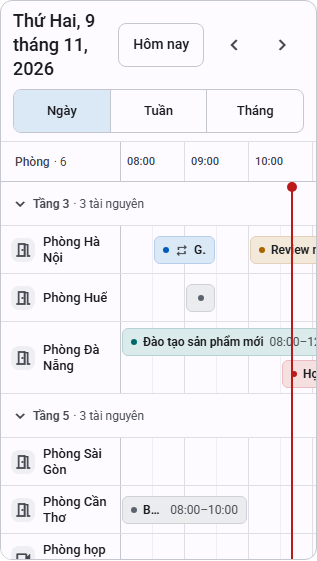
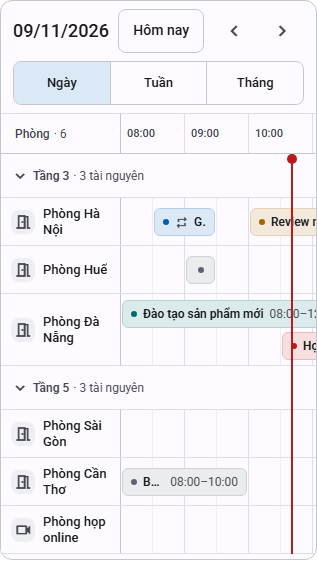
docs(handoff): write the PD decisions of 2026-11-11 into the specs
scheduler.md: resources reload by ids (R1 #7), px-only size variables
(R1 #8), SdSchedulerCellView (R1 #9), the grid label (R1 #10), no
scrollLeft reset on prev/next (R1 #15), titles (R2 #5, #9, #12), month
cells 28px (R2 #7), no dashed origin while waiting (R2 #10), cells
only with the cell template (R2 #11). SHARED-CONTRACT: SC-31 focus
follows the item that had it, 'resize' for a change of the end
(RX #2, #6), SC-43 fallback rule (RX #8). The group-count note of the
test report no longer points at R1 #7. Scheduler screenshots retaken.

diff --git a/.sdcorejs/handoff/schedule-kanban/SHARED-CONTRACT.md b/.sdcorejs/handoff/schedule-kanban/SHARED-CONTRACT.md
@@ -70,7 +70,7 @@ Thêm:
 | --- | --- |
 | SC-29 | Thao tác bắt đầu từ bàn phím hoặc menu: khi xong (chấp nhận, từ chối, `'cancel'`, huỷ phạm vi), focus về item đó, kể cả khi item đã sang khoảng hoặc cột khác. |
 | SC-30 | Trong lúc chờ, người dùng chủ động focus chỗ khác thì giữ nguyên chỗ đó. |
-| SC-31 | `move()` với `source: 'api'` không lấy focus. |
+| SC-31 | `move()` với `source: 'api'` không lấy focus từ chỗ khác. Focus đang ở chính item khi thao tác bắt đầu (mọi `source`) thì đi theo item, kể cả khi item sang ngày, hàng hoặc cột khác, như kanban (RX #6, PD 2026-11-11). Calendar, scheduler: đổi giờ kết thúc (mép, `Alt` + `Shift` + mũi tên) có `source: 'resize'` (RX #2, PD 2026-11-11). |
 
 ## 8. Bố cục, trợ năng, i18n, E2E
 
@@ -92,6 +92,6 @@ Thêm:
 | SC-40 | Standalone, `ChangeDetectionStrategy.OnPush`, signal `input()`/`model()`/`output()`, `@if`/`@for` với `track` theo id. |
 | SC-41 | Ngày giờ chỉ qua `SdDateTimeService`. Không `new Date(string)`, không getter local trên giá trị model, không cộng 24 giờ để sang ngày. |
 | SC-42 | Không thêm dependency. Kéo thả bằng `@angular/cdk/drag-drop`. |
-| SC-43 | Màu chỉ bằng token `--sd-*` có fallback; không hex mới (`check:scss-hex`). Không `!important`, không `::ng-deep`. |
+| SC-43 | Màu chỉ bằng token `--sd-*`; không hex mới (`check:scss-hex`). Token của component (`--sd-calendar-*`, `--sd-scheduler-*`, `--sd-kanban-*`) phải có fallback; token lõi (`--sd-*` của theme, kể cả `--sd-shadow-*`) không cần, theo quy ước trên main; fallback đang có thì giữ (RX #8, PD 2026-11-11). Không `!important`, không `::ng-deep`. |
 | SC-44 | Không render phần tử cho từng slot thời gian; vạch lưới vẽ bằng gradient. |
 | SC-45 | Comment `why:` cho quyết định không hiển nhiên, như code hiện có. |

diff --git a/.sdcorejs/handoff/schedule-kanban/reports/scheduler-tests.md b/.sdcorejs/handoff/schedule-kanban/reports/scheduler-tests.md
@@ -207,7 +207,7 @@ Thư mục `reports/scheduler-screens/`, chụp từ project `asia-bangkok`, Chr
 
 Lệch có chủ đích (ghi trong PR):
 - Số ngày trên trục Tuần “9” thay vì “09”, tiêu đề Ngày “9 tháng 11”: định dạng của calendar (Bước 0 L5).
-- Số đếm hàng nhóm “3 tài nguyên” thay vì “3 phòng”: chỉ đổi qua key i18n `group-count` (R1 #7, chờ PD).
+- Số đếm hàng nhóm “3 tài nguyên” thay vì “3 phòng”: lệch đã ghi, không phải mục chờ PD; app muốn chữ khác thì đổi key i18n `group-count`. (Bản trước ghi nhầm “R1 #7”: R1 #7 là việc tải lại theo `resources`, PD chốt ngày 11/11/2026.)
 - Tiêu đề hẹp xuống dòng thay vì “09/11/2026” (R2 #5, chờ PD).
 - Ví dụ Chấm công không có avatar như HTML (template tài nguyên của ví dụ chỉ có tên và cột tổng).
 - Vạch giờ hiện tại vẽ trên nhãn nổi khi kéo qua nó (vạch nằm trên khối, dưới phần dính, §7).
